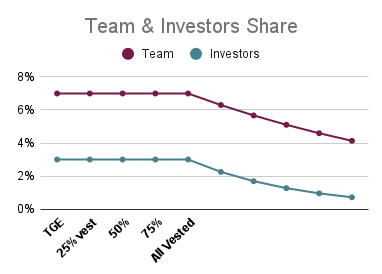
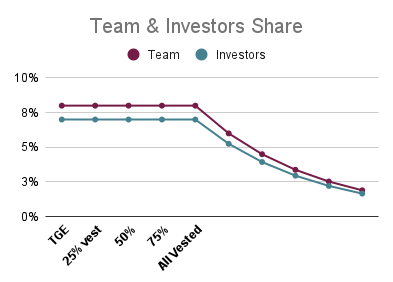
Revised Tokenomics + Hardcap

diff --git a/docs/dao/tokenomics/sale-rounds.md b/docs/dao/tokenomics/sale-rounds.md
@@ -27,37 +27,35 @@ Nevertheless, total raised funds will be shown publicly.
 
 ## Vesting Schedule
 
-Team and Investors’ pTOKEN vesting schedule depends on the current total supply of the main TOKEN. The amount vested is equal to 10% of the TOKEN supply. This means that at 10 million TOKEN supply, a maximum of 1,000,000 pTOKEN can be redeemed. At 100 million TOKEN supply, it’s 10 million pTOKEN redeemed.
+Team and Investors’ pTOKEN vesting schedule depends on the current total supply of the main TOKEN. The amount vested is equal to 15% of the TOKEN supply. This means that at 10 million TOKEN supply, a maximum of 1,500,000 pTOKEN can be redeemed. At 100 million TOKEN supply, it’s 15 million pTOKEN redeemed.
 
-<!--
-All pTOKEN holders finish vesting anywhere from (soft cap/10%) to (actual raised/10%) TOKEN supply, so this is a long-term bet. There’s a lot of upside for holders, but it is dependent on the actual growth of the protocol.
--->
+All pTOKEN holders finish vesting anywhere between 4 Billion to 16 Billion TOKEN supply, depending on funds raised between the soft and hard cap values. There’s a lot of upside for holders, but it is dependent on the actual growth of the protocol.
 
 ## Example Situation of Vesting Schedule
 
 **Assumptions**
 
-- pTOKEN bought by Investor = 135,000,000
-- Amount invested by Investor = $2,000,000
+- pTOKEN bought by Investor = 300,000,000
+- Amount invested by Investor = $4,000,000
 
 **Solve**
 
 - pTOKEN share of Team is,
 
 $$
-pTOKEN_{Team} = \left(\frac{135,000,000}{3\text{%}}\right) * 7\text{%} = \mathbf{315,000,000}
+pTOKEN_{Team} = \left(\frac{300,000,000}{7\text{%}}\right) * 8\text{%} = \mathbf{342,857,143}
 $$
 
 - Total pTOKEN is
 
 $$
-pTOKEN = 135,000,000 + 315,000,000 = \mathbf{450,000,000}
+pTOKEN = 300,000,000 + 342,857,143 = \mathbf{642,857,143}
 $$
 
 - Initial TOKEN supply is
 
 $$
-TOKEN_{TGE} = \left(135,000,000 + 315,000,000\right) * 10\text{%} = \mathbf{45,000,000}
+TOKEN_{TGE} = \left(300,000,000 + 342,857,143\right) * 20\text{%} = \mathbf{128,571,429}
 $$
 
 Given the Initial TOKEN supply (TGE) here are its corresponding vesting schedule:
@@ -67,27 +65,27 @@ Given the Initial TOKEN supply (TGE) here are its corresponding vesting schedule
 |    Main TOKEN     | Current TOKEN Supply | pTOKEN to be Vested | pTOKEN to be Vested |
 | :---------------: | :------------------: | :-----------------: | :-----------------: |
 |                   |         DAO          |        Team         |      Investors      |
-|  Initial Supply   |      45,000,000      |      3,150,000      |      1,350,000      |
-|                   |      90,000,000      |      6,300,000      |      2,700,000      |
-|                   |     135,000,000      |      9,450,000      |      4,050,000      |
-|                   |     180,000,000      |     12,600,000      |      5,400,000      |
-|                   |     225,000,000      |     15,750,000      |      6,750,000      |
-|                   |     270,000,000      |     18,900,000      |      8,100,000      |
-|                   |     315,000,000      |     22,050,000      |      9,450,000      |
-|                   |     360,000,000      |     25,200,000      |     10,800,000      |
-|                   |     405,000,000      |     28,350,000      |     12,150,000      |
-|                   |     450,000,000      |     31,500,000      |     13,500,000      |
-|                   |     900,000,000      |     63,000,000      |     27,000,000      |
-|                   |    1,350,000,000     |     94,500,000      |     40,500,000      |
-|                   |    1,800,000,000     |     126,000,000     |     54,000,000      |
-|                   |    2,250,000,000     |     157,500,000     |     67,500,000      |
-|                   |    2,700,000,000     |     189,000,000     |     81,000,000      |
-|                   |    3,150,000,000     |     220,500,000     |     94,500,000      |
-|                   |    3,600,000,000     |     252,000,000     |     108,000,000     |
-|                   |    4,050,000,000     |     283,500,000     |     121,500,000     |
-| All pTOKEN Vested |    4,500,000,000     |     315,000,000     |     135,000,000     |
-|                   |    4,950,000,000     |          -          |          -          |
+|  Initial Supply   |     128,571,429      |      9,000,000      |      3,857,143      |
+|                   |     257,142,857      |     18,000,000      |      7,714,286      |
+|                   |     302,142,857      |     21,150,000      |      9,064,286      |
+|                   |     347,142,857      |     24,300,000      |     10,414,286      |
+|                   |     392,142,857      |     27,450,000      |     11,764,286      |
+|                   |     437,142,857      |     30,600,000      |     13,114,286      |
+|                   |     482,142,857      |     33,750,000      |     14,464,286      |
+|                   |     527,142,857      |     36,900,000      |     15,814,286      |
+|                   |     572,142,857      |     40,050,000      |     17,164,286      |
+|                   |     617,142,857      |     43,200,000      |     18,514,286      |
+|                   |    1,067,142,857     |     74,700,000      |     32,014,286      |
+|                   |    1,517,142,857     |     106,200,000     |     45,514,286      |
+|                   |    1,967,142,857     |     137,700,000     |     59,014,286      |
+|                   |    2,417,142,857     |     169,200,000     |     72,514,286      |
+|                   |    2,867,142,857     |     200,700,000     |     86,014,286      |
+|                   |    3,317,142,857     |     232,200,000     |     99,514,286      |
+|                   |    3,767,142,857     |     263,700,000     |     113,014,286     |
+|                   |    4,217,142,857     |     295,200,000     |     126,514,286     |
+| All pTOKEN Vested |    4,667,142,857     |     326,700,000     |     140,014,286     |
+|                   |    5,117,142,857     |          -          |          -          |
 
 </center>
 
-In our example, when the TOKEN supply reaches 4,500,000,000 then all pTOKEN can be converted to TOKEN. TOKEN supply continuous to grow after the 4.5 Billion mark, however, all pTOKEN are vested. Therefore, percentage-share of DAO increases over time, while Team and Investors shares decreases over time.
+In our example, when the TOKEN supply reaches 4,667,142,857 then all pTOKEN can be converted to TOKEN. TOKEN supply continuous to grow after the 4.7 Billion mark, however, all pTOKEN are vested. Therefore, percentage-share of DAO increases over time, while Team and Investors shares decreases over time.

diff --git a/docs/dao/tokenomics/presale-token.md b/docs/dao/tokenomics/presale-token.md
@@ -2,18 +2,18 @@
 
 The presale TOKEN, pTOKEN, is a precursor derivative of the main TOKEN. Just like any other TOKEN derivative, the ratio of pTOKEN to TOKEN is honored at 1:1. Everyone is eligible for the presale.
 
-The team has a soft cap of $2,000,000, but no hard cap. The number of presale TOKENs cannot be specified at the moment but would be publicly released once the presale period has ended.
+The team has a soft cap of $4,000,000, and a hard cap of $15,000,000. The number of presale TOKENs cannot be specified at the moment but would be publicly released once the presale period has ended.
 
-Whatever the amount of pTOKEN raised during the presale round will account for 3% of the Total Supply of the main TOKEN.
+Whatever the amount of pTOKEN raised during the presale round will account for 7% of the Total Supply of the main TOKEN.
 
 $$
 pTOKEN_{Investors} = \frac{Raised\text{ }Funds}{Presale\text{ }Discount}
 $$
 
-The Team’s share will be represented by pTOKEN as well, hence it follows the pTOKEN’s vesting schedule. The team’s share will account for 7% of the Total Supply of the main TOKEN.
+The Team’s share will be represented by pTOKEN as well, hence it follows the pTOKEN’s vesting schedule. The team’s share will account for 8% of the Total Supply of the main TOKEN.
 
 $$
-pTOKEN_{Team} = \left(\frac{pTOKEN_{Investors}}{3\text{%}}\right) * 7\text{%}
+pTOKEN_{Team} = \left(\frac{pTOKEN_{Investors}}{7\text{%}}\right) * 8\text{%}
 $$
 
 The Team and Investors share diminishes once the TOKEN supply passes the number where all pTOKEN can be vested, meaning the percentage of the DAO increases. In the chart below, the percentage-share of Team and Investors are constant until passing the point "All Vested" (i.e. all pTOKEN are vested). To keep it simple, as the supply of TOKEN increases, the share of Investors and Team in the tokenomics decreases while the DAO percentage share increases.
@@ -21,3 +21,7 @@ The Team and Investors share diminishes once the TOKEN supply passes the number 
 <center>
 <a href="../../../assets/charts/team-inv-share.png" target="blank"><img src="../../../assets/charts/team-inv-share.png" alt="Team and Investors share over time"></a>
 </center>
+
+## Fund Allocation
+
+**88%** of the funds raised in Presale will be used to cover the costs of each TOKEN minted at TGE backed by its Intrinsic Value, and used for Initial Liquidity. The remaining **22%** will be used to cover the cost of the project's continuous development. These numbers are not final, most likely the allocation to have more liquidity will be increased before TGE.

diff --git a/docs/dao/tokenomics/initial-supply.md b/docs/dao/tokenomics/initial-supply.md
@@ -1,9 +1,9 @@
 # Initial Supply
 
-The initial supply of the TOKEN would depend on the number of presale TOKEN (pTOKEN) raised during the presale round, specifically at 10% of the total number of pTOKEN raised.
+The initial supply of the TOKEN would depend on the number of presale TOKEN (pTOKEN) raised during the presale round, specifically at 20% of the total number of pTOKEN raised.
 
 $$
-TOKEN_{TGE} = \left(pTOKEN_{Investors} + pTOKEN_{Team}\right) * 10\text{%}
+TOKEN_{TGE} = \left(pTOKEN_{Investors} + pTOKEN_{Team}\right) * 20\text{%}
 $$
 
 The TOKEN allocation during the time period between TGE (Initial Supply) to a certain point wherein all pTOKEN are vested, is shown in the chart below.
@@ -14,10 +14,10 @@ The TOKEN allocation during the time period between TGE (Initial Supply) to a ce
 
 The allocation is as follows:
 
-1. Team: 7%
-2. Presale Investors: 3%
-3. DAO: 90%
+1. Team: 8%
+2. Presale Investors: 7%
+3. DAO: 85%
 
-Nonetheless, as mentioned earlier, once the TOKEN supply passes the amount needed for all pTOKEN to be vested, the percentage share of DAO increases from 90%.
+Nonetheless, as mentioned earlier, once the TOKEN supply passes the amount needed for all pTOKEN to be vested, the percentage share of DAO increases.
 
 The Team will provide initial liquidity of at least 10% on TGE to act as a price cushion for unwanted TOKEN dumps.

diff --git a/docs/dao/tokenomics/README.md b/docs/dao/tokenomics/README.md
@@ -14,4 +14,6 @@ TOKENs will be minted when derivative TOKENs are exchanged for the main TOKEN. I
 
 ## Burning
 
-There will be other TOKEN burns to be implemented in the future. The current burn mechanism we have is that whenever the value of the assets in the treasury falls below the number of Circulating TOKEN multiplied by its Intrinsic Value, then the decrease in treasury value would be the number of TOKENs burnt.
+The current burn mechanism in place occurs whenever the value of the assets in the treasury falls below the number of Circulating TOKEN multiplied by its Intrinsic Value, then the decrease in treasury value would be the number of TOKENs burnt.
+
+There may be other TOKEN burns to be implemented in the future.
